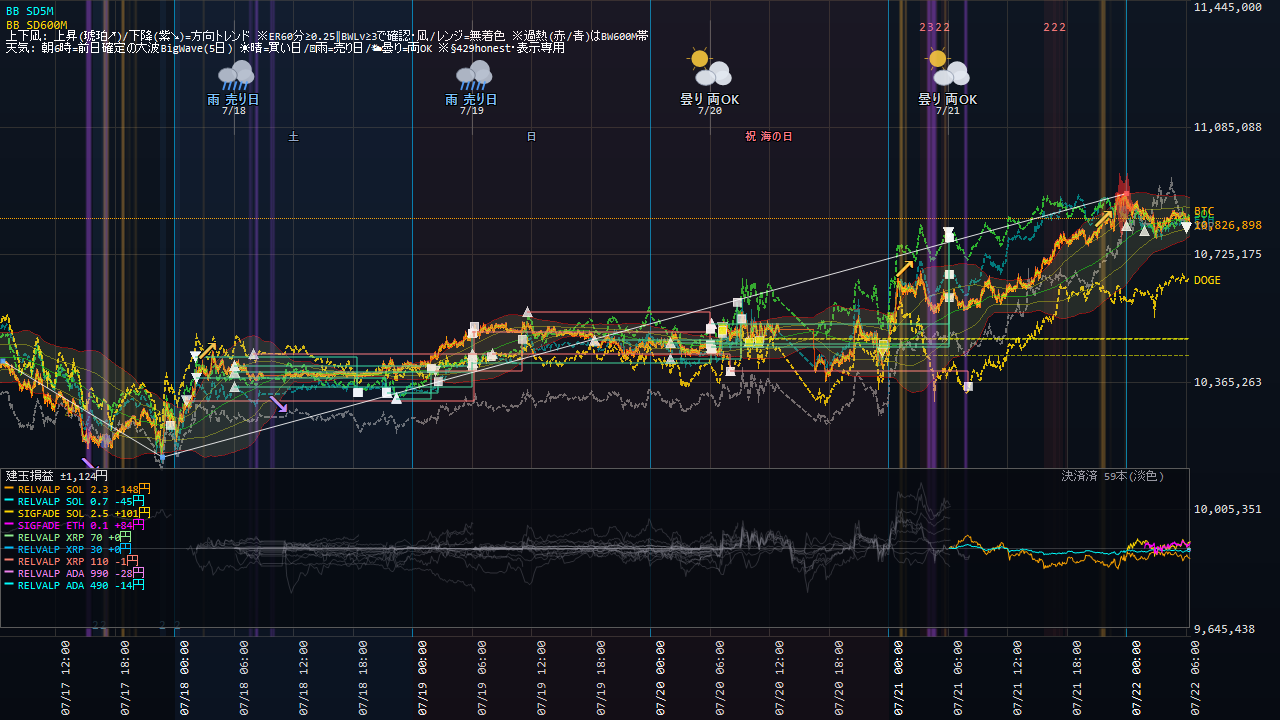
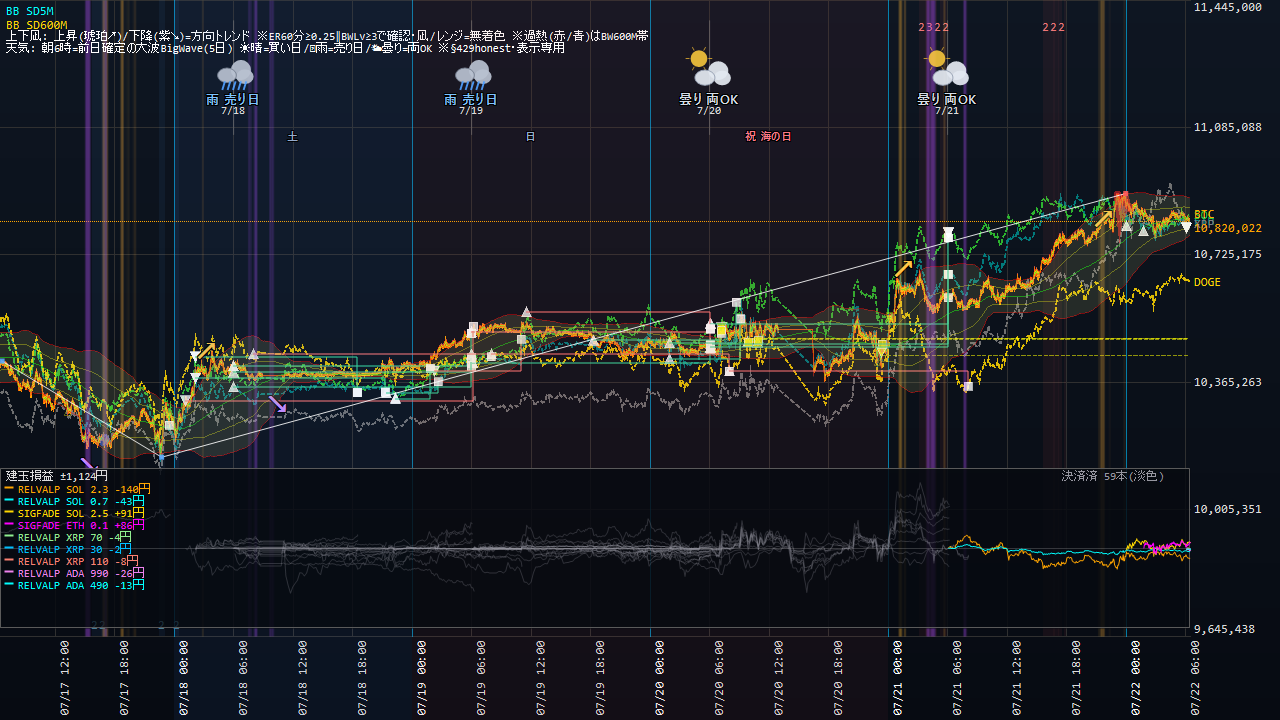
Coin100S 運用状況更新 07-22 06:35

diff --git a/coin100s-795hc4jfv8/index.html b/coin100s-795hc4jfv8/index.html
@@ -14,16 +14,16 @@ a{color:#60a5fa;text-decoration:none} a:hover{text-decoration:underline}
 .meta{color:#94a3b8;font-size:13px}</style>
 <script>setTimeout(function(){location.replace(location.pathname+"?t="+Date.now());},300000);</script></head><body>
 <h1>Coin100S ダッシュボード</h1>
-<p class="meta">スナップショット: 2026-07-22 06:29:02(自動リロード・最新化)</p>
+<p class="meta">スナップショット: 2026-07-22 06:35:03(自動リロード・最新化)</p>
 <div class="cards">
 <div class="card">建玉数<div class="v">9</div></div>
 <div class="card">本日損益<div class="v ">?</div></div>
-<div class="card">評価損益<div class="v neg">-21円</div></div>
+<div class="card">評価損益<div class="v pos">+19円</div></div>
 </div>
 <h2>現在の建玉</h2>
-<table><tr><th>銘柄</th><th>側</th><th>数量</th><th>建値</th><th>含損益</th><th>レッグ</th></tr><tr><td>ADA_JPY</td><td>SELL</td><td>490</td><td>@28</td><td>0円</td><td>RELVALP_SL700</td></tr><tr><td>ADA_JPY</td><td>SELL</td><td>990</td><td>@28</td><td>0円</td><td>RELVALP_SELL</td></tr><tr><td>ETH_JPY</td><td>BUY</td><td>0.1</td><td>@313,170</td><td>+94円</td><td>SIGFADE_ETH</td></tr><tr><td>SOL_JPY</td><td>BUY</td><td>2.5</td><td>@12,687</td><td>+97円</td><td>SIGFADE_SOL</td></tr><tr><td>SOL_JPY</td><td>SELL</td><td>0.7</td><td>@12,663</td><td>-45円</td><td>RELVALP_SL700</td></tr><tr><td>SOL_JPY</td><td>SELL</td><td>2.3</td><td>@12,663</td><td>-145円</td><td>RELVALP_SELL</td></tr><tr><td>XRP_JPY</td><td>SELL</td><td>110</td><td>@187</td><td>-12円</td><td>RELVALP_SELL</td></tr><tr><td>XRP_JPY</td><td>SELL</td><td>30</td><td>@187</td><td>-3円</td><td>RELVALP_SELL</td></tr><tr><td>XRP_JPY</td><td>SELL</td><td>70</td><td>@187</td><td>-7円</td><td>RELVALP_SL700</td></tr></table>
+<table><tr><th>銘柄</th><th>側</th><th>数量</th><th>建値</th><th>含損益</th><th>レッグ</th></tr><tr><td>ADA_JPY</td><td>SELL</td><td>490</td><td>@28</td><td>0円</td><td>RELVALP_SL700</td></tr><tr><td>ADA_JPY</td><td>SELL</td><td>990</td><td>@28</td><td>0円</td><td>RELVALP_SELL</td></tr><tr><td>ETH_JPY</td><td>BUY</td><td>0.1</td><td>@313,170</td><td>+101円</td><td>SIGFADE_ETH</td></tr><tr><td>SOL_JPY</td><td>BUY</td><td>2.5</td><td>@12,687</td><td>+102円</td><td>SIGFADE_SOL</td></tr><tr><td>SOL_JPY</td><td>SELL</td><td>0.7</td><td>@12,663</td><td>-46円</td><td>RELVALP_SL700</td></tr><tr><td>SOL_JPY</td><td>SELL</td><td>2.3</td><td>@12,663</td><td>-150円</td><td>RELVALP_SELL</td></tr><tr><td>XRP_JPY</td><td>SELL</td><td>110</td><td>@187</td><td>+3円</td><td>RELVALP_SELL</td></tr><tr><td>XRP_JPY</td><td>SELL</td><td>30</td><td>@187</td><td>+1円</td><td>RELVALP_SELL</td></tr><tr><td>XRP_JPY</td><td>SELL</td><td>70</td><td>@187</td><td>+2円</td><td>RELVALP_SL700</td></tr></table>
 <p><a href="status.html"><b>▶ 運用状況の詳細(チャート・本日の取引・レジーム)</b></a></p>
 <h2>日報一覧</h2>
 <table><tr><th>取引日</th><th>実現損益</th><th>総括</th></tr><tr><td><a href='reports/20260721_Coin100S日報.html'>2026-07-21</a></td><td class="pos">+0円</td><td class='meta'>実取引: 新規4件/決済13件、実現損益 +0円。⚠警告/エラー 13件（要確認）。</td></tr><tr><td><a href='reports/20260720_Coin100S日報.html'>2026-07-20</a></td><td class="pos">+0円</td><td class='meta'>実取引: 新規8件/決済21件、実現損益 +0円。シグナル却下8件（最多: BW10M3_5M／トレンド方向ゲート(N分傾き上と不一致=逆張り方向のfade禁止)）。⚠警告/エラー 13件（要確認）。</td></tr><tr><td><a href='reports/20260719_Coin100S日報.html'>2026-07-19</a></td><td class="pos">+0円</td><td class='meta'>実取引: 新規10件/決済7件、実現損益 +0円。⚠警告/エラー 3件（要確認）。</td></tr><tr><td><a href='reports/20260718_Coin100S日報.html'>2026-07-18</a></td><td class="pos">+0円</td><td class='meta'>実取引: 新規9件/決済8件、実現損益 +0円。警告/孤児/エラーなし＝健全。</td></tr><tr><td><a href='reports/20260717_Coin100S日報.html'>2026-07-17</a></td><td class="pos">+0円</td><td class='meta'>実取引: 新規3件/決済2件、実現損益 +0円。シグナル却下1件（最多: BW10M3_5M／トレンド方向ゲート(N分傾き下と不一致=逆張り方向のfade禁止)）。⚠警告/エラー 2件（要確認）。</td></tr><tr><td><a href='reports/20260716_Coin100S日報.html'>2026-07-16</a></td><td class="pos">+0円</td><td class='meta'>実取引: 新規0件/決済5件、実現損益 +0円。⚠警告/エラー 7件（要確認）。</td></tr><tr><td><a href='reports/20260715_Coin100S日報.html'>2026-07-15</a></td><td class="pos">+0円</td><td class='meta'>実取引: 新規6件/決済5件、実現損益 +0円。シグナル却下6件（最多: BW10M3_5M／トレンド方向ゲート(N分傾き上と不一致=逆張り方向のfade禁止)）。⚠警告/エラー 7件（要確認）。</td></tr><tr><td><a href='reports/20260714_Coin100S日報.html'>2026-07-14</a></td><td class="pos">+0円</td><td class='meta'>実取引: 新規6件/決済18件、実現損益 +0円。シグナル却下5件（最多: BW10M3_5M／トレンド方向ゲート(N分傾き上と不一致=逆張り方向のfade禁止)）。⚠警告/エラー 9件（要確認）。</td></tr><tr><td><a href='reports/20260713_Coin100S日報.html'>2026-07-13</a></td><td class="pos">+0円</td><td class='meta'>実取引: 新規5件/決済8件、実現損益 +0円。シグナル却下1件（最多: BW10M3_5M／トレンド方向ゲート(N分傾き上と不一致=逆張り方向のfade禁止)）。警告/孤児/エラーなし＝健全。</td></tr><tr><td><a href='reports/20260712_Coin100S日報.html'>2026-07-12</a></td><td class="pos">+0円</td><td class='meta'>実取引: 新規14件/決済6件、実現損益 +0円。シグナル却下5件（最多: BW10M3_5M／トレンド方向ゲート(N分傾き下と不一致=逆張り方向のfade禁止)）。⚠警告/エラー 2件（要確認）。</td></tr><tr><td><a href='reports/20260711_Coin100S日報.html'>2026-07-11</a></td><td class="pos">+0円</td><td class='meta'>実取引: 新規7件/決済6件、実現損益 +0円。⚠警告/エラー 52件（要確認）。</td></tr><tr><td><a href='reports/20260710_Coin100S日報.html'>2026-07-10</a></td><td class="pos">+0円</td><td class='meta'>実取引: 新規7件/決済6件、実現損益 +0円。シグナル却下6件（最多: BW10M3_5M／トレンド方向ゲート(N分傾き上と不一致=逆張り方向のfade禁止)）。警告/孤児/エラーなし＝健全。</td></tr><tr><td><a href='reports/20260709_Coin100S日報.html'>2026-07-09</a></td><td class="pos">+0円</td><td class='meta'>実取引: 新規8件/決済3件、実現損益 +0円。シグナル却下5件（最多: SD120M_5M／トレンド方向ゲート(N分傾き上と不一致=逆張り方向のfade禁止)）。警告/孤児/エラーなし＝健全。</td></tr><tr><td><a href='reports/20260708_Coin100S日報.html'>2026-07-08</a></td><td class="pos">+0円</td><td class='meta'>実取引: 新規2件/決済4件、実現損益 +0円。シグナル却下4件（最多: SD120M_5M／トレンド方向ゲート(N分傾き下と不一致=逆張り方向のfade禁止)）。警告/孤児/エラーなし＝健全。</td></tr><tr><td><a href='reports/20260707_Coin100S日報.html'>2026-07-07</a></td><td class="pos">+0円</td><td class='meta'>実取引: 新規8件/決済6件、実現損益 +0円。シグナル却下4件（最多: SD120M_5M／トレンド方向ゲート(N分傾き上と不一致=逆張り方向のfade禁止)）。⚠警告/エラー 258件（要確認）。</td></tr><tr><td><a href='reports/20260706_Coin100S日報.html'>2026-07-06</a></td><td class="pos">+0円</td><td class='meta'>実取引: 新規9件/決済6件、実現損益 +0円。シグナル却下9件（最多: SD120M_5M／トレンド方向ゲート(N分傾き上と不一致=逆張り方向のfade禁止)）。⚠警告/エラー 150件（要確認）。</td></tr><tr><td><a href='reports/20260705_Coin100S日報.html'>2026-07-05</a></td><td class="pos">+0円</td><td class='meta'>実取引: 新規8件/決済3件、実現損益 +0円。⚠警告/エラー 2件（要確認）。</td></tr><tr><td><a href='reports/20260704_Coin100S日報.html'>2026-07-04</a></td><td class="pos">+0円</td><td class='meta'>実取引: 新規1件/決済2件、実現損益 +0円。⚠警告/エラー 2件（要確認）。</td></tr><tr><td><a href='reports/20260703_Coin100S日報.html'>2026-07-03</a></td><td class="pos">+0円</td><td class='meta'>実取引: 新規5件/決済4件、実現損益 +0円。⚠警告/エラー 15件（要確認）。</td></tr><tr><td><a href='reports/20260702_Coin100S日報.html'>2026-07-02</a></td><td class="pos">+0円</td><td class='meta'>実取引: 新規7件/決済5件、実現損益 +0円。シグナル却下17件（最多: SD120M_5M／トレンド方向ゲート(N分傾き上と不一致=逆張り方向のfade禁止)）。⚠警告/エラー 26件（要確認）。</td></tr><tr><td><a href='reports/20260701_Coin100S日報.html'>2026-07-01</a></td><td class="pos">+0円</td><td class='meta'>実取引: 新規14件/決済8件、実現損益 +0円。シグナル却下14件（最多: SD120M_5M／ボラ軸ゲート(SDN%&amp;gt;N%=高ボラ/荒れレンジ)）。⚠警告/エラー 2件（要確認）。</td></tr><tr><td><a href='reports/20260630_Coin100S日報.html'>2026-06-30</a></td><td class="pos">+0円</td><td class='meta'>実取引: 新規0件/決済1件、実現損益 +0円。シグナル却下29件（最多: 微5M／当日枠N）。警告/孤児/エラーなし＝健全。</td></tr></table>
-<hr><p class="meta">更新: 2026-07-22 06:29:28 / 自動生成: tools/web_publish.py(§580)</p>
+<hr><p class="meta">更新: 2026-07-22 06:35:17 / 自動生成: tools/web_publish.py(§580)</p>
 </body></html>

diff --git a/coin100s-795hc4jfv8/status.html b/coin100s-795hc4jfv8/status.html
@@ -14,22 +14,22 @@ a{color:#60a5fa;text-decoration:none} a:hover{text-decoration:underline}
 .meta{color:#94a3b8;font-size:13px}</style>
 <script>setTimeout(function(){location.replace(location.pathname+"?t="+Date.now());},300000);</script></head><body>
 <h1>Coin100S 運用状況</h1>
-<p class="meta">スナップショット: 2026-07-22 06:29:02 / ページ生成: 2026-07-22 06:29:28(自動リロード・最新化) / <a href="index.html">目次へ</a></p>
+<p class="meta">スナップショット: 2026-07-22 06:34:32 / ページ生成: 2026-07-22 06:35:17(自動リロード・最新化) / <a href="index.html">目次へ</a></p>
 <div class="cards">
 <div class="card">建玉数<div class="v">9</div></div>
 <div class="card">本日損益<div class="v ">?</div></div>
-<div class="card">評価損益<div class="v neg">-21円</div></div>
+<div class="card">評価損益<div class="v pos">+12円</div></div>
 </div>
 <h2>資産推移(直近30日)</h2>
-<img src="status_equity.png?t=0629" alt="equity">
+<img src="status_equity.png?t=0635" alt="equity">
 <h2>取引チャート(直近24h)</h2>
-<img src="status_chart.png?t=0629" alt="chart">
+<img src="status_chart.png?t=0635" alt="chart">
 <h2>建玉一覧</h2>
-<table><tr><th>銘柄</th><th>側</th><th>数量</th><th>建値</th><th>含損益</th><th>レッグ</th></tr><tr><td>ADA_JPY</td><td>SELL</td><td>490</td><td>@28</td><td>0円</td><td>RELVALP_SL700</td></tr><tr><td>ADA_JPY</td><td>SELL</td><td>990</td><td>@28</td><td>0円</td><td>RELVALP_SELL</td></tr><tr><td>ETH_JPY</td><td>BUY</td><td>0.1</td><td>@313,170</td><td>+94円</td><td>SIGFADE_ETH</td></tr><tr><td>SOL_JPY</td><td>BUY</td><td>2.5</td><td>@12,687</td><td>+97円</td><td>SIGFADE_SOL</td></tr><tr><td>SOL_JPY</td><td>SELL</td><td>0.7</td><td>@12,663</td><td>-45円</td><td>RELVALP_SL700</td></tr><tr><td>SOL_JPY</td><td>SELL</td><td>2.3</td><td>@12,663</td><td>-145円</td><td>RELVALP_SELL</td></tr><tr><td>XRP_JPY</td><td>SELL</td><td>110</td><td>@187</td><td>-12円</td><td>RELVALP_SELL</td></tr><tr><td>XRP_JPY</td><td>SELL</td><td>30</td><td>@187</td><td>-3円</td><td>RELVALP_SELL</td></tr><tr><td>XRP_JPY</td><td>SELL</td><td>70</td><td>@187</td><td>-7円</td><td>RELVALP_SL700</td></tr></table>
+<table><tr><th>銘柄</th><th>側</th><th>数量</th><th>建値</th><th>含損益</th><th>レッグ</th></tr><tr><td>ADA_JPY</td><td>SELL</td><td>490</td><td>@28</td><td>0円</td><td>RELVALP_SL700</td></tr><tr><td>ADA_JPY</td><td>SELL</td><td>990</td><td>@28</td><td>0円</td><td>RELVALP_SELL</td></tr><tr><td>ETH_JPY</td><td>BUY</td><td>0.1</td><td>@313,170</td><td>+94円</td><td>SIGFADE_ETH</td></tr><tr><td>SOL_JPY</td><td>BUY</td><td>2.5</td><td>@12,687</td><td>+102円</td><td>SIGFADE_SOL</td></tr><tr><td>SOL_JPY</td><td>SELL</td><td>0.7</td><td>@12,663</td><td>-46円</td><td>RELVALP_SL700</td></tr><tr><td>SOL_JPY</td><td>SELL</td><td>2.3</td><td>@12,663</td><td>-150円</td><td>RELVALP_SELL</td></tr><tr><td>XRP_JPY</td><td>SELL</td><td>110</td><td>@187</td><td>+6円</td><td>RELVALP_SELL</td></tr><tr><td>XRP_JPY</td><td>SELL</td><td>30</td><td>@187</td><td>+2円</td><td>RELVALP_SELL</td></tr><tr><td>XRP_JPY</td><td>SELL</td><td>70</td><td>@187</td><td>+4円</td><td>RELVALP_SL700</td></tr></table>
 <h2>実現決済履歴(直近15件・OrderId単位)</h2>
 <table><tr><th>決済時刻</th><th>レッグ</th><th>銘柄</th><th>実現損益</th></tr><tr><td>07-21 08:07</td><td>TENKI5D_REV_DOGE</td><td>DOGE</td><td class="neg">-210円</td></tr><tr><td>07-21 06:11</td><td>TENKI5D_REV_ETH</td><td>ETH</td><td class="pos">+622円</td></tr><tr><td>07-21 06:11</td><td>TENKI5D_REV_ETH</td><td>ETH</td><td class="pos">+124円</td></tr><tr><td>07-21 06:09</td><td>TENKI5D_REV_SOL</td><td>SOL</td><td class="pos">+287円</td></tr><tr><td>07-21 06:09</td><td>TENKI5D_REV_SOL</td><td>SOL</td><td class="pos">+454円</td></tr><tr><td>07-21 06:09</td><td>TENKI5D_REV_BTC</td><td>BTC</td><td class="pos">+649円</td></tr><tr><td>07-21 06:08</td><td>RELVALP_SELL</td><td>LTC</td><td class="neg">-267円</td></tr><tr><td>07-21 06:08</td><td>RELVALP_SL700</td><td>LTC</td><td class="neg">-90円</td></tr><tr><td>07-20 23:29</td><td>BW10M3_5M</td><td>BTC</td><td class="neg">-45円</td></tr><tr><td>07-20 10:58</td><td>BW10M3_5M</td><td>BTC</td><td class="pos">+7円</td></tr><tr><td>07-20 09:56</td><td>BW10M3_5M</td><td>BTC</td><td class="neg">-6円</td></tr><tr><td>07-20 09:11</td><td>SIGFADE_ETH</td><td>ETH</td><td class="pos">+370円</td></tr><tr><td>07-20 08:45</td><td>SIGFADE_SOL</td><td>SOL</td><td class="pos">+380円</td></tr><tr><td>07-20 08:04</td><td>TENKI5D_REV_DOGE</td><td>DOGE</td><td class="neg">-249円</td></tr><tr><td>07-20 07:16</td><td>BW10M3_5M</td><td>BTC</td><td class="pos">+17円</td></tr></table>
 <!-- §799c 「本取引日の実取引(6:00起点)」テーブルは公開ページから削除(ユーザー指示2026-07-15・数量/指値まで晒す情報漏れ)。建玉/実現損益は許可・実発注の生取引明細は非公開 -->
 <h2>現在レジーム(3軸・§570c)</h2>
-<ul><li>アルト対BTC 5日: <b>-85bps</b>(アルト劣後=RELVAL順風)</li><li>BTC ER240m: <b>0.010</b>(閾値0.25→レンジ(fade順風/BWTRD逆風))</li><li>BTC実現ボラ240m: <b>4.54</b> bps/分</li></ul>
+<ul><li>アルト対BTC 5日: <b>-85bps</b>(アルト劣後=RELVAL順風)</li><li>BTC ER240m: <b>0.004</b>(閾値0.25→レンジ(fade順風/BWTRD逆風))</li><li>BTC実現ボラ240m: <b>4.53</b> bps/分</li></ul>
 <hr><p class="meta">自動生成: tools/web_publish.py(§580・読み取り専用)。売買判断はアプリ本体。</p>
 </body></html>
